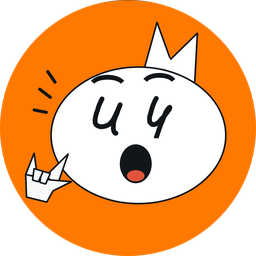
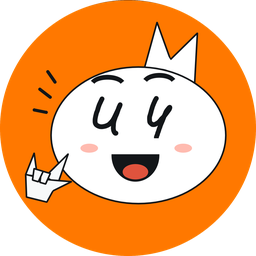
Happier surprised mascot; speech bubble ends with «???»
Claude-Session: https://claude.ai/code/session_01CKPo13zSZpskLkcHQUs5F8

Changed region(s): [[0.4375, 0.5625, 0.625, 0.7188], [0.6562, 0.5625, 0.75, 0.5938], [0.3125, 0.5625, 0.4062, 0.5938]]

diff --git a/index.html b/index.html
@@ -19,7 +19,7 @@
 <link rel="icon" type="image/png" href="favicon.png">
 <link rel="apple-touch-icon" href="apple-touch-icon.png">
 <link rel="preload" href="fonts/balsamiq-sans-cyrillic-700-normal.woff2" as="font" type="font/woff2" crossorigin>
-<link rel="stylesheet" href="style.css?v=20261012h">
+<link rel="stylesheet" href="style.css?v=20261012i">
 </head>
 <body>
 
@@ -28,10 +28,10 @@
     <div class="menu-logo">
       <div class="logo-row">
         <div class="logo-col">
-          <img src="mascot-surprised.png" alt="Здивований маскот ukr_movych" width="96" height="96">
+          <img src="mascot-surprised.png?v=2" alt="Радісно здивований маскот ukr_movych" width="96" height="96">
           <span class="handle">@ukr_movych</span>
         </div>
-        <p class="speech">шооо, тут стільки нового з'явилось!!!</p>
+        <p class="speech">шооо, тут стільки нового з'явилось???</p>
       </div>
     </div>
     <h1 class="title">Що качатимемо?</h1>
@@ -250,8 +250,8 @@
     <span>by <b>@ukr_movych</b></span>
   </footer>
 
-  <script src="leaderboard-config.js?v=20261012h"></script>
-  <script src="script.js?v=20261012h"></script>
+  <script src="leaderboard-config.js?v=20261012i"></script>
+  <script src="script.js?v=20261012i"></script>
 
 </body>
 </html>
